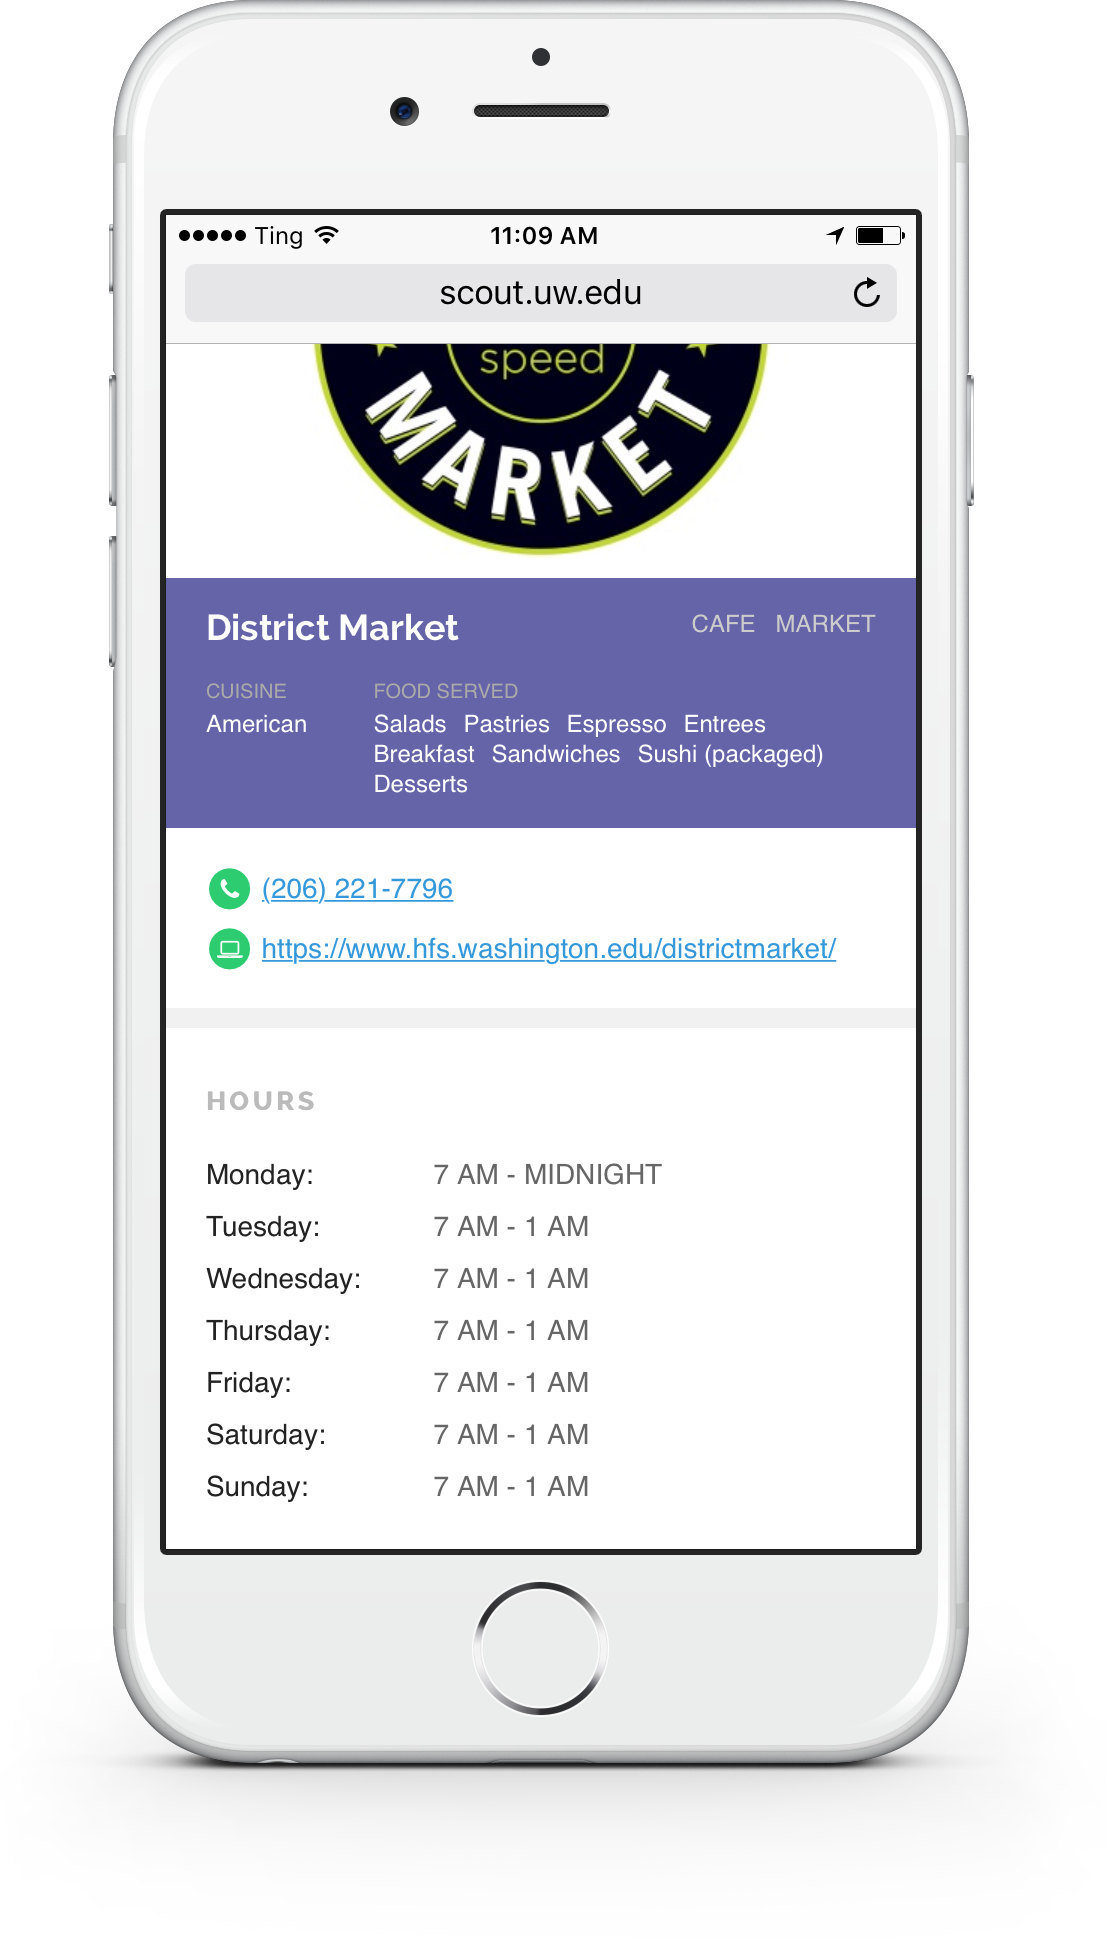
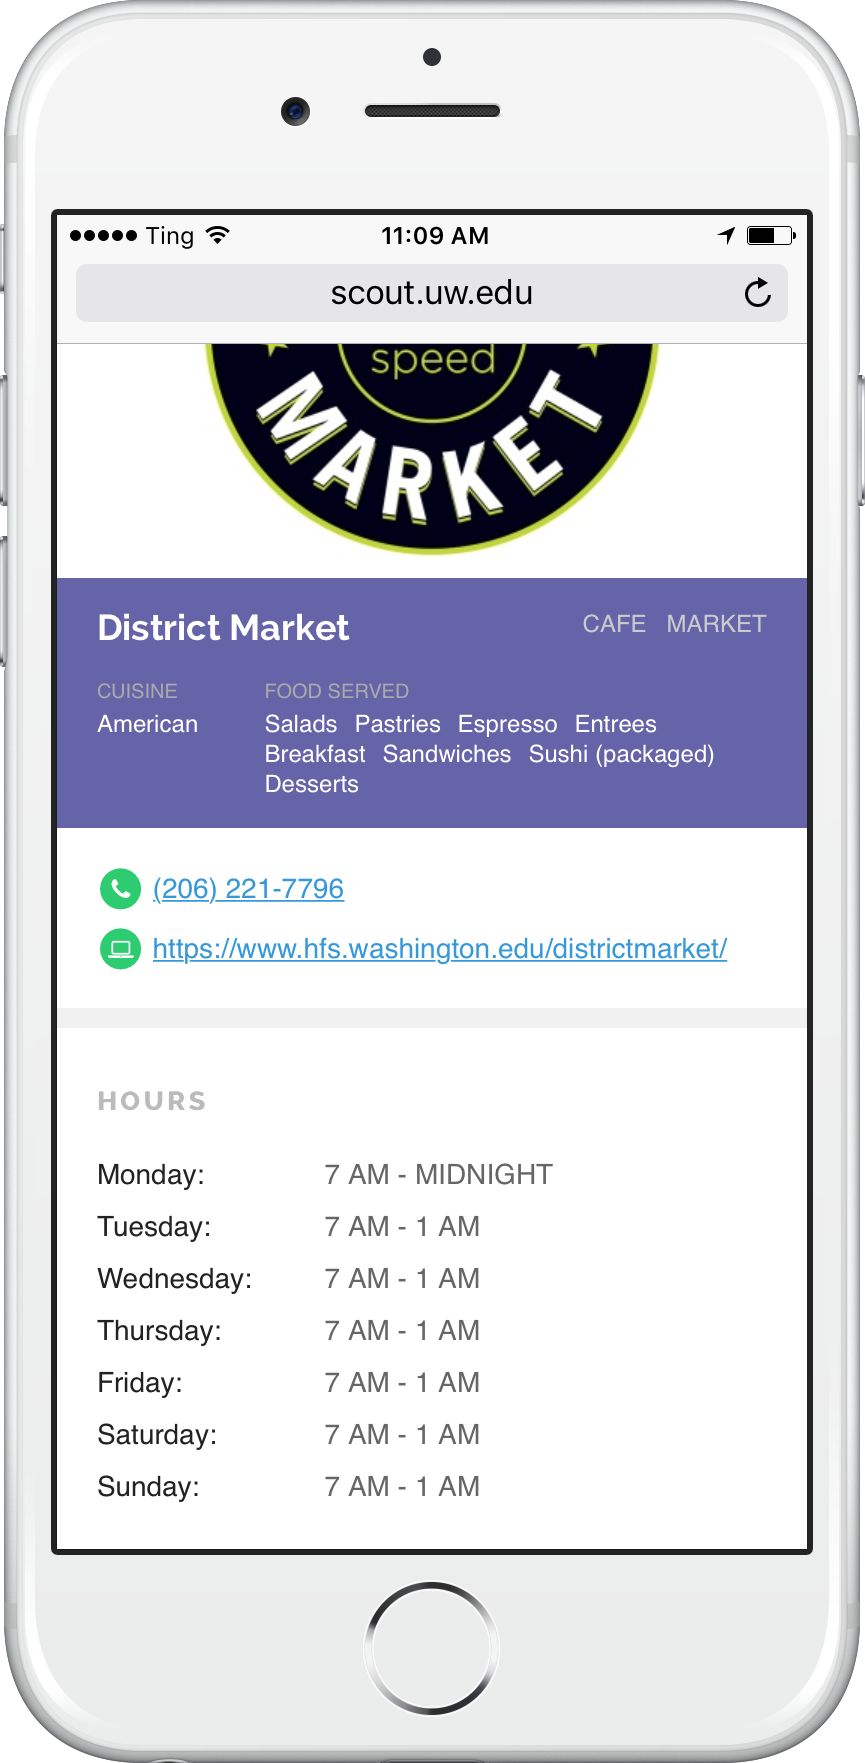
Explored some alternative layouts

Changed region(s): [[0.0, 0.0, 1.0, 1.0]]

diff --git a/css/style.min.css b/css/style.min.css
@@ -1,1 +1,1 @@
-html{min-height:100%;position:relative}body{font-family:'Open Sans', sans-serif;font-size:16px;font-weight:400;line-height:1.4;margin-bottom:9rem}.container{margin-left:auto;margin-right:auto;padding-left:1rem;padding-right:1rem}footer{background:linear-gradient(rgba(101,100,168,0.9), rgba(101,100,168,0.9)),url("../images/district_market.jpg");background-size:cover;background-position:left center;bottom:0;color:white;height:9rem;position:absolute;width:100%}header>.container{padding-top:2rem;text-align:center}h1,h2{margin:0}h1{font-family:'Raleway', sans-serif;font-size:2.25rem;font-weight:900;margin-bottom:0.5rem;text-transform:uppercase}h2{font-size:1.5rem;font-weight:300;margin-bottom:2.5rem;text-align:center}#logo{margin-bottom:0.125rem;width:4rem}main>.container{padding-bottom:2rem}#phone{width:300px;z-index:999}@media (min-width: 39.5rem){.container{padding-left:0;padding-right:0;width:37.5rem}}
+a{color:lightgray;text-decoration:none}html{min-height:100%;position:relative}body{font-family:'Open Sans', sans-serif;font-size:16px;font-weight:400;line-height:1.4}.container{margin-left:auto;margin-right:auto;padding-left:1rem;padding-right:1rem}footer{background:linear-gradient(rgba(101,100,168,0.9), rgba(101,100,168,0.9)),url("../images/district_market.jpg");background-size:cover;background-position:left center;color:white}footer .container{align-items:center;justify-content:space-between;display:flex;padding-top:2rem;padding-bottom:2rem}footer p{text-align:center;width:30%}header>.container{padding-top:2rem;text-align:center}h1,h2{margin:0}h1{font-family:'Raleway', sans-serif;font-size:2.25rem;font-weight:900;margin-bottom:0.5rem;text-transform:uppercase}h2{font-size:1.5rem;font-weight:300;margin-bottom:2.5rem;text-align:center}#logo{margin-bottom:0.125rem;width:4rem}main>.container{padding-bottom:2rem}#phone{height:100%;width:25%}@media (min-width: 39.5rem){.container{padding-left:0;padding-right:0;width:37.5rem}footer .container{width:75rem}}

diff --git a/css/style.scss b/css/style.scss
@@ -1,5 +1,10 @@
 $purple-light: rgba(101, 100, 168, 0.9);
 
+a {
+    color: lightgray;
+    text-decoration: none;
+}
+
 html, {
     min-height: 100%;
     position: relative;
@@ -10,8 +15,6 @@ body {
     font-size: 16px;
     font-weight: 400;
     line-height: 1.4;
-    // Margin bottom by footer height
-    margin-bottom: 9rem;
 }
 
 .container {
@@ -25,12 +28,20 @@ footer {
     background: linear-gradient($purple-light, $purple-light), url("../images/district_market.jpg");
     background-size: cover;
     background-position: left center;
-    bottom: 0;
     color: white;
-    // Fixed height of the footer
-    height: 9rem;
-    position: absolute;
-    width: 100%;
+}
+
+footer .container {
+    align-items: center;
+    justify-content: space-between;
+    display: flex;
+    padding-top: 2rem;
+    padding-bottom: 2rem;
+}
+
+footer p {
+    text-align: center;
+    width: 30%;
 }
 
 header > .container {
@@ -67,8 +78,8 @@ main > .container {
 }
 
 #phone {
-    width: 300px;
-    z-index: 999;
+    height: 100%;
+    width: 25%;
 }
 
 @media (min-width: 39.5rem) {
@@ -76,5 +87,9 @@ main > .container {
         padding-left: 0;
         padding-right: 0;
         width: 37.5rem;
+    }
+
+    footer .container {
+        width: 75rem;
     }
 }

diff --git a/index.html b/index.html
@@ -43,10 +43,12 @@
             <div class="container">
                 <p>Scout UW will help you find resources on all three UW campuses and is made possible by UW-IT and the Student Technology Fee.</p>
 
-                <p>If you’re looking for study spaces this summer, use <a href="http://spacescout.uw.edu/">SpaceScout</a> while we put the finishing touches on Scout UW.</p>
-
                 <img src="images/phone.png" alt="Discover new places to eat" id="phone">
+
+                <p>If you’re looking for study spaces this summer, use <a href="http://spacescout.uw.edu/">SpaceScout</a> while we put the finishing touches on Scout UW.</p>
             </div>
+
+
         </footer>
     </body>
 </html>
